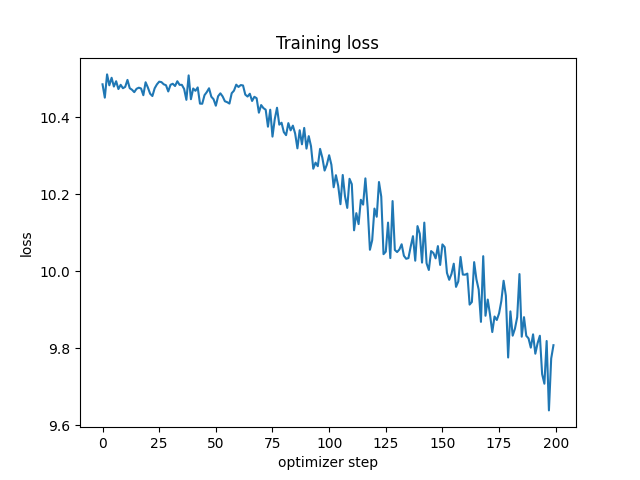
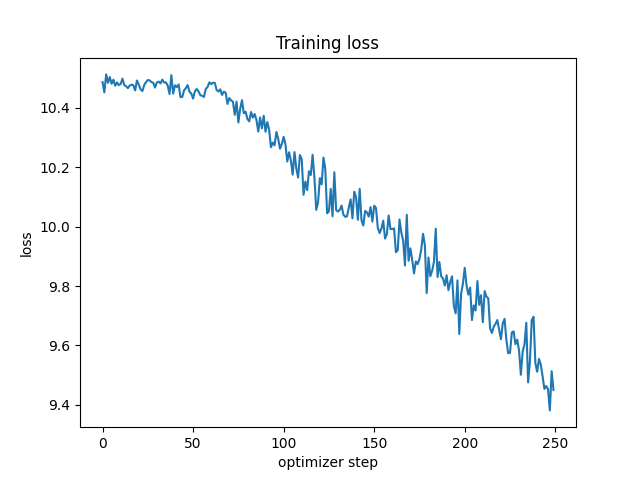
he he

diff --git a/train_transfermer_pretraining.py b/train_transfermer_pretraining.py
@@ -156,21 +156,21 @@ epoch_avg_losses, epoch_avg_ppls = [], []
 
 
 def save_plots():
-    fig, ax = plt.subplots()
-    ax.plot(step_losses)
-    ax.set_xlabel("optimizer step")
-    ax.set_ylabel("loss")
-    ax.set_title("Training loss")
-    fig.savefig(os.path.join(LOG_DIR, "loss_curve.png"))
-    plt.close(fig)
+    # Single figure with two subplots (loss and perplexity) sharing x-axis
+    fig, (ax1, ax2) = plt.subplots(2, 1, sharex=True, figsize=(8, 6))
+    if step_losses:
+        ax1.plot(step_losses, label="loss")
+    ax1.set_ylabel("loss")
+    ax1.set_title("Training loss & perplexity")
 
-    fig, ax = plt.subplots()
-    ax.plot(step_ppls)
-    ax.set_xlabel("optimizer step")
-    ax.set_ylabel("perplexity")
-    ax.set_yscale("log")
-    ax.set_title("Training perplexity")
-    fig.savefig(os.path.join(LOG_DIR, "perplexity_curve.png"))
+    if step_ppls:
+        ax2.plot(step_ppls, label="perplexity")
+    ax2.set_xlabel("optimizer step")
+    ax2.set_ylabel("perplexity")
+    ax2.set_yscale("log")
+
+    fig.tight_layout()
+    fig.savefig(os.path.join(LOG_DIR, "loss_and_perplexity.png"))
     plt.close(fig)
 
     if epoch_avg_losses:
@@ -207,7 +207,13 @@ for epoch in range(NUM_EPOCHS):
     accum_steps = 0
 
     batch_iter = iter_training_batches(dataset, tokenizer, SEQ_LEN, BATCH_SIZE)
-    pbar = tqdm(batch_iter, desc=f"Epoch {epoch + 1}/{NUM_EPOCHS}", unit="batch")
+    # Estimate total optimizer steps for the epoch (heuristic)
+    avg_chunk = (dataset.min_chunk_size + dataset.max_chunk_size) / 2 if hasattr(dataset, 'min_chunk_size') else 1500
+    estimated_steps = max(1, int(len(dataset) * (avg_chunk / SEQ_LEN)))
+    pbar = tqdm(batch_iter, desc=f"Epoch {epoch + 1}/{NUM_EPOCHS}", unit="batch", total=estimated_steps)
+
+    epoch_step_start = time.time()
+    epoch_optim_steps = 0
 
     for xs, ys in pbar:
         xs, ys = xs.to(DEVICE), ys.to(DEVICE)
@@ -265,6 +271,19 @@ for epoch in range(NUM_EPOCHS):
                 logger.info(f"   step {global_step} | loss {step_loss:.4f} | ppl {step_ppl:.2f}")
                 save_plots()
                 save_metrics()
+
+            # ETA calculation and pbar update
+            epoch_optim_steps += 1
+            elapsed = time.time() - epoch_step_start
+            avg_time = elapsed / epoch_optim_steps if epoch_optim_steps else 0
+            remaining = max(0, estimated_steps - epoch_optim_steps)
+            eta = remaining * avg_time
+            pbar.set_postfix({
+                "loss": f"{current_avg_loss:.4f}",
+                "ppl": f"{current_ppl:.2f}",
+                "lr": f"{LEARNING_RATE:.2e}",
+                "eta": str(timedelta(seconds=int(eta)))
+            })
 
     pbar.close()
 
